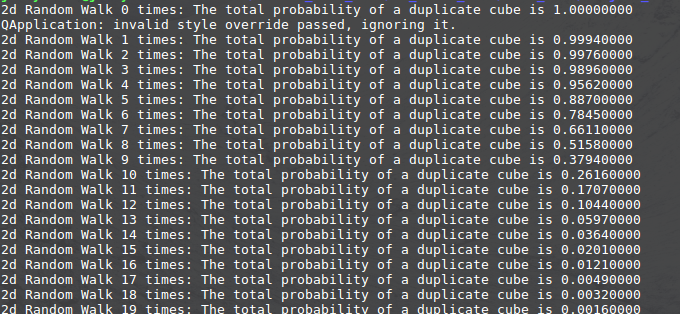
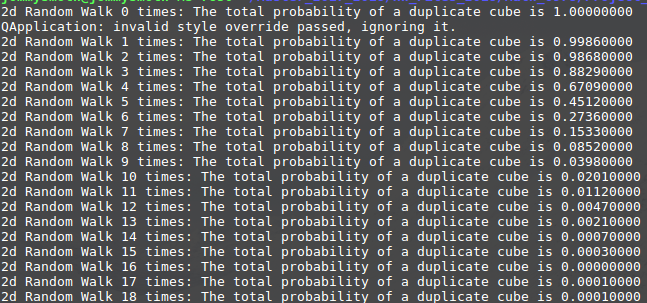
Final Additions

diff --git a/Rubik_Cubic_Simulation.py b/Rubik_Cubic_Simulation.py
@@ -86,13 +86,13 @@ def turn_cube_func(faces, turn_type, turn_axis, rotate_amount):
     return faces
 
 
-def randomize_cube(cube, amount_shuffle, movement_list):
+def randomize_cube(cube, amount_shuffle, movement_list, rest_axis=3, rest_turns=3):
     """Randomize Cube x-amount."""
     size = len(movement_list)
     for x in range(amount_shuffle):
         m_type = movement_list[np.random.randint(size)]
-        axis = np.random.randint(size)
-        movement_amount = np.random.randint(size)
+        axis = np.random.randint(rest_axis)
+        movement_amount = np.random.randint(rest_turns)
         cube = turn_cube_func(cube, m_type, axis, movement_amount)
     return cube
 
@@ -175,7 +175,7 @@ def make_dist_func(amount_rand, amount_dist, dim=['h', 'w', 'l']):
     if amount_rand == 0:
         return 1
     for new in range(amount_dist):
-        random_faces = randomize_cube(generate_faces(), amount_rand, dim)
+        random_faces = randomize_cube(generate_faces(), amount_rand, dim, rest_axis=1)
         if any((random_faces == x).all() for x in rub_list):
             for ind, check in enumerate(rub_list):
                 if np.array_equal(check, random_faces):
@@ -194,8 +194,8 @@ def make_dist_func(amount_rand, amount_dist, dim=['h', 'w', 'l']):
     values_hist = sorted(values_hist, reverse=True)
     values_hist = [x - 1 for x in values_hist]
     
-    plt.figure()
-    plt.bar(indexes, values_hist, width)
+    # plt.figure()
+    # plt.bar(indexes, values_hist, width)
     plt.title('%i Total Randimized By Random Walk Length %i' % (amount_dist, amount_rand))
     
     sum_rep = sum(values_hist)
@@ -205,18 +205,21 @@ def make_dist_func(amount_rand, amount_dist, dim=['h', 'w', 'l']):
 
 
 if __name__ == '__main__':
-    amount_random = 10
+    # amount_random = 20
     make_dist = 10000
     
     prob_change = []
-    for run in range(amount_random):
-        total_rep_prob = make_dist_func(run, make_dist)
+    total_rep_prob = 10
+    run = 0
+    while total_rep_prob > 0.01:
+        total_rep_prob = make_dist_func(run, make_dist, dim=['h', 'w'])
         prob_change.append(total_rep_prob)
-
-        print('3d Random Walk %i times: The total probability of a duplicate cube is %1.8f' % (run, total_rep_prob))
+        run += 1
+        print('2d Random Walk (With only 1 of 3 on each axis) %i times: The total probability of a duplicate cube is %1.8f' % (run, total_rep_prob))
 
     plt.figure()
     plt.plot(prob_change)
     plt.title('Probability of Repeating State After Certain Amount of Randimization')
+    print(prob_change)
     plt.show()
     

diff --git a/jfg.py b/jfg.py
@@ -2,11 +2,29 @@
 import matplotlib.pyplot as plt
 
 if __name__ == '__main__':
-	leg = ['3D-Random Walk', '2D-Random Walk']
+	leg = ['3D-Random Walk', '2D-Random Walk', '3D-Random Walk Translation-Restricted: 2', '3D-Random Walk Translation-Restricted: 1',
+		   '3D-Random Walk Rotation-Restricted: 2', '2D-Random Walk Translation-Restricted: 2', '2D-Random Walk Rotation-Restricted: 2', '2D-Random Walk Translation-Restricted: 1']
 	prob3 = [1, 0.998, 0.9668, 0.6978, 0.4032, 0.1953, 0.0816, 0.0314, 0.0124, 0.0039]
-	prob2 = [1, 0.9994, 0.9976, 0.9896, 0.9562, 0.887, 0.7845, 0.6611, 0.5158, 0.3794, 0.2616, 0.1707, 0.1044, 0.0597, 0.0364, 0.0201, 0.0121, 0.0049, 0.0032, 0.0016]
-	plt.plot(prob3, 'ro-')
-	plt.plot(prob2, 'bo-')
+	prob2 = [1, 0.9986, 0.9868, 0.8829, 0.6709, 0.4512, 0.2736, 0.1533, 0.0852, 0.0398, 0.0201, 0.0112, 0.0047]
+	prob1 = [1, 0.9986, 0.9849, 0.8466, 0.5809, 0.3517, 0.1739, 0.0876, 0.0371, 0.0149, 0.0069]
+	prob4 = [1, 0.9992, 0.9953, 0.9669, 0.7943, 0.4787, 0.2283, 0.107, 0.0478, 0.0225, 0.0096]
+	prob5 = [1, 0.9989, 0.9889, 0.8922, 0.7182, 0.5158, 0.3216, 0.1848, 0.0926, 0.0416, 0.0189, 0.0078]
+	prob6 = [1, 0.999, 0.9939, 0.9614, 0.8408, 0.6842, 0.5176, 0.372, 0.2611, 0.1624, 0.1095, 0.0653, 0.0389, 0.0227, 0.0129, 0.0076]
+	prob7 = [1, 0.9992, 0.9953, 0.9699, 0.8816, 0.7553, 0.5993, 0.434, 0.2888, 0.178, 0.0996, 0.0553, 0.028, 0.0149, 0.0066]
+	prob8 = [1, 0.9994, 0.998, 0.9926, 0.972, 0.9041, 0.767, 0.6059, 0.4517, 0.3423, 0.2512, 0.1802, 0.1247, 0.0835, 0.0537, 0.0396, 0.0236, 0.0136, 0.0074]
+
+
+
+
+	plt.plot(prob3, 'o-')
+	plt.plot(prob2, 'o-')
+	plt.plot(prob1, 'o-')
+	plt.plot(prob4, 'o-')
+	plt.plot(prob5, 'o-')
+	plt.plot(prob6, 'o-')
+	plt.plot(prob7, 'o-')
+	plt.plot(prob8, 'o-')
+
 	plt.title('Probability of Repeated States in Different Dimensions')
 	plt.ylabel('Probability')
 	plt.xlabel('Length of Walk')
